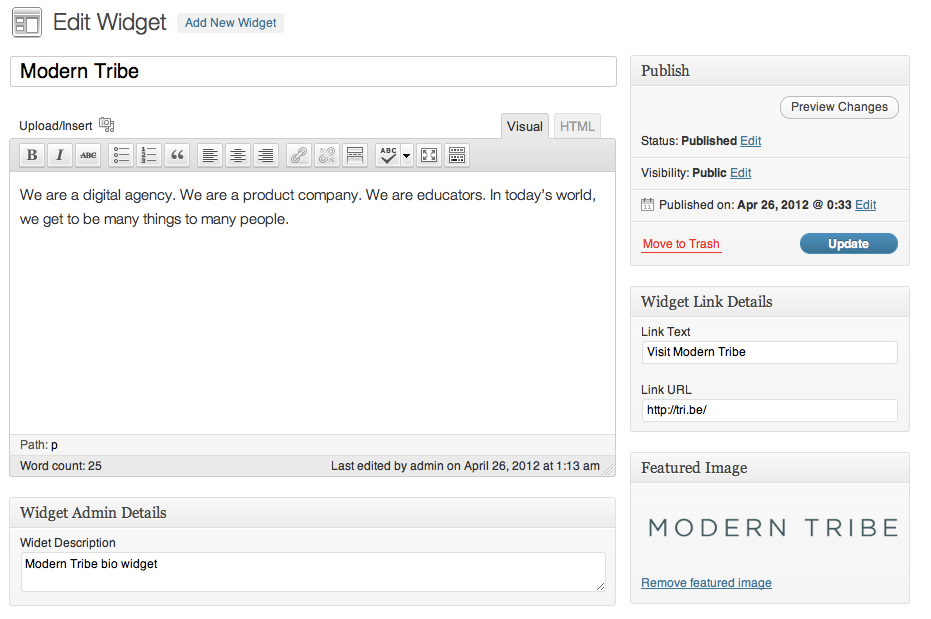
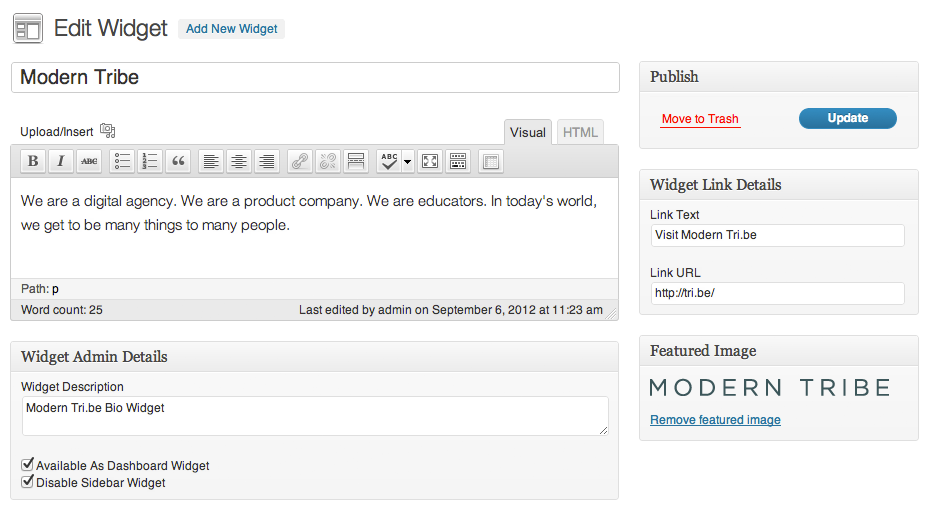
Version 1.4

diff --git a/classes/widget-builder.php b/classes/widget-builder.php
@@ -138,7 +138,23 @@ if ( !class_exists( 'Tribe_Widget_Builder' ) ) {
 		 */
 		public function register_widgets() {
 			foreach ( $this->get_widget_data() as $widget ) {
-				tribe_register_widget('Tribe_Widget_Builder_Display', $widget);
+				if( ! $widget['disable_sidebar'] )
+					tribe_register_widget('Tribe_Widget_Builder_Display', $widget);
+
+				// add dashboard widget
+				if( is_admin() && $widget['dashboard'] ) {
+					add_action( is_multisite() ? 'wp_network_dashboard_setup' : 'wp_dashboard_setup', function( $widget ) use ( $widget ) { 
+						wp_add_dashboard_widget( $widget['token'] . '-' . $widget['ID'], $widget['title'], function( $widget ) use ( $widget ) { 
+
+							// apply filters
+							$content = apply_filters( 'the_content', empty( $widget['content'] ) ? '' : $widget['content'] );
+							$content = str_replace(']]>', ']]&gt;', $content);
+
+							// get template hierarchy
+							include( Tribe_Widget_Builder::get_template_hierarchy( 'widget_dashboard' ) );
+						});
+					});
+				}
 			}
 		}
 
@@ -164,6 +180,8 @@ if ( !class_exists( 'Tribe_Widget_Builder' ) ) {
 						'link_url' => get_post_meta($widget->ID, '_' . Tribe_Widget_Builder::TOKEN . '_link_url', true),
 						'link_text' => get_post_meta($widget->ID, '_' . Tribe_Widget_Builder::TOKEN . '_link_text', true),
 						'widget_description' => get_post_meta($widget->ID, '_' . Tribe_Widget_Builder::TOKEN . '_widget_description', true),
+						'dashboard' => get_post_meta($widget->ID, '_' . Tribe_Widget_Builder::TOKEN . '_dashboard', true),
+						'disable_sidebar' => get_post_meta($widget->ID, '_' . Tribe_Widget_Builder::TOKEN . '_disable_sidebar', true),
 						'token' => Tribe_Widget_Builder::TOKEN
 					);
 				}
@@ -332,7 +350,9 @@ if ( !class_exists( 'Tribe_Widget_Builder' ) ) {
 			global $post_id;
 
 			// setup view fields
-			$field = self::TOKEN . '_widget_description';
+			$field_description = self::TOKEN . '_widget_description';
+			$field_dashboard = self::TOKEN . '_dashboard';
+			$field_disable_sidebar = self::TOKEN . '_disable_sidebar';
 
 			// get template hierarchy
 			include( $this->get_template_hierarchy( 'metabox_admin' ) );
@@ -370,7 +390,7 @@ if ( !class_exists( 'Tribe_Widget_Builder' ) ) {
 			}
 
 			// Authenticated
-			$fields = array( self::TOKEN . '_link_text', self::TOKEN . '_link_url', self::TOKEN . '_widget_description' );
+			$fields = array( self::TOKEN . '_link_text', self::TOKEN . '_link_url', self::TOKEN . '_widget_description', self::TOKEN . '_dashboard', self::TOKEN . '_disable_sidebar' );
 
 			// Parse fields for add, update, delete
 			foreach ( $fields as $f ) {
@@ -408,7 +428,7 @@ if ( !class_exists( 'Tribe_Widget_Builder' ) ) {
 			} else if ( $theme_file = locate_template(array(self::TOKEN . '/' . $template . '_' . $class . '.php')) ) {
 				$file = $theme_file;
 			} else {
-				$file = $this->base_path . '/views/' . $template . '.php';
+				$file = self::get_instance()->base_path . '/views/' . $template . '.php';
 			}
 
 			return apply_filters( self::TOKEN . '_' . $template, $file, $class);

diff --git a/views/metabox_admin.php b/views/metabox_admin.php
@@ -8,7 +8,19 @@
 if ( !defined('ABSPATH') )
 	die('-1');
 
-$saved_value = get_post_meta( $post_id, '_' . $field, true );
-$html = '<label for="' . $field . '">' . __('Widget Description', 'widget-builder' ) . '</label><br />';
-$html .= '<textarea id="' . $field . '" name="' . $field . '" style="width:100%;" />' . $saved_value . '</textarea>';
-echo $html;
+$saved_description = get_post_meta( $post_id, '_' . $field_description, true );
+$saved_dashboard = get_post_meta( $post_id, '_' . $field_dashboard, true );
+$saved_disable_sidebar = get_post_meta( $post_id, '_' . $field_disable_sidebar, true );
+
+?>
+<label for="<?php echo $field_description; ?>"><?php _e('Widget Description', 'widget-builder' ); ?></label><br />
+<textarea id="<?php echo $field_description; ?>" name="<?php echo $field_description; ?>" style="width:100%;" /><?php echo $saved_description; ?></textarea>
+<br /><br />
+<label for="<?php echo $field_dashboard; ?>">
+	<input type="checkbox" name="<?php echo $field_dashboard; ?>" id="<?php echo $field_dashboard; ?>" value="1" <?php checked($saved_dashboard); ?> />
+	<?php _e('Available As Dashboard Widget', 'widget-builder' ); ?>
+</label><br />
+<label for="<?php echo $field_disable_sidebar; ?>">
+	<input type="checkbox" name="<?php echo $field_disable_sidebar; ?>" id="<?php echo $field_disable_sidebar; ?>" value="1" <?php checked($saved_disable_sidebar); ?> />
+	<?php _e('Disable Sidebar Widget', 'widget-builder' ); ?>
+</label>

diff --git a/views/widget_dashboard.php b/views/widget_dashboard.php
@@ -1,0 +1,20 @@
+<?php
+/**
+ * Widget template. This template can be overriden using the "tribe_widget_builder_widget_dashboard.php" filter.
+ * See the readme.txt file for more info.
+ */
+
+// Block direct requests
+if ( !defined('ABSPATH') )
+	die('-1');
+
+// build html
+$widget_html = '';
+if ( !empty( $widget['image'] ) ) {
+	$widget_html .= ( !empty( $widget['link_url'] ) ) ? '<a href="' . $widget['link_url'] . '" target="_blank"><img src="' . $widget['image'][0] . '" /></a>' : '<img src="' . $widget['image'][0] . '" />'; 
+}
+$widget_html .= $content;
+$widget_html .= ( !empty( $widget['link_url'] ) ) ? '<a href="' . $widget['link_url'] . '" target="_blank">' . $widget['link_text'] . '</a>' : '';
+
+// to screen
+echo $widget_html;

diff --git a/widget-builder.php b/widget-builder.php
@@ -3,7 +3,7 @@
 Plugin Name:	Widget Builder
 Description:	This plugin creates predefined content widgets that can be used in multiple sidebars while being centrally configured.
 Author:			Timothy Wood, Jonathan Brinley, Modern Tribe, Inc.
-Version:		1.3
+Version:		1.4
 Author URI:		http://tri.be
 */
 
